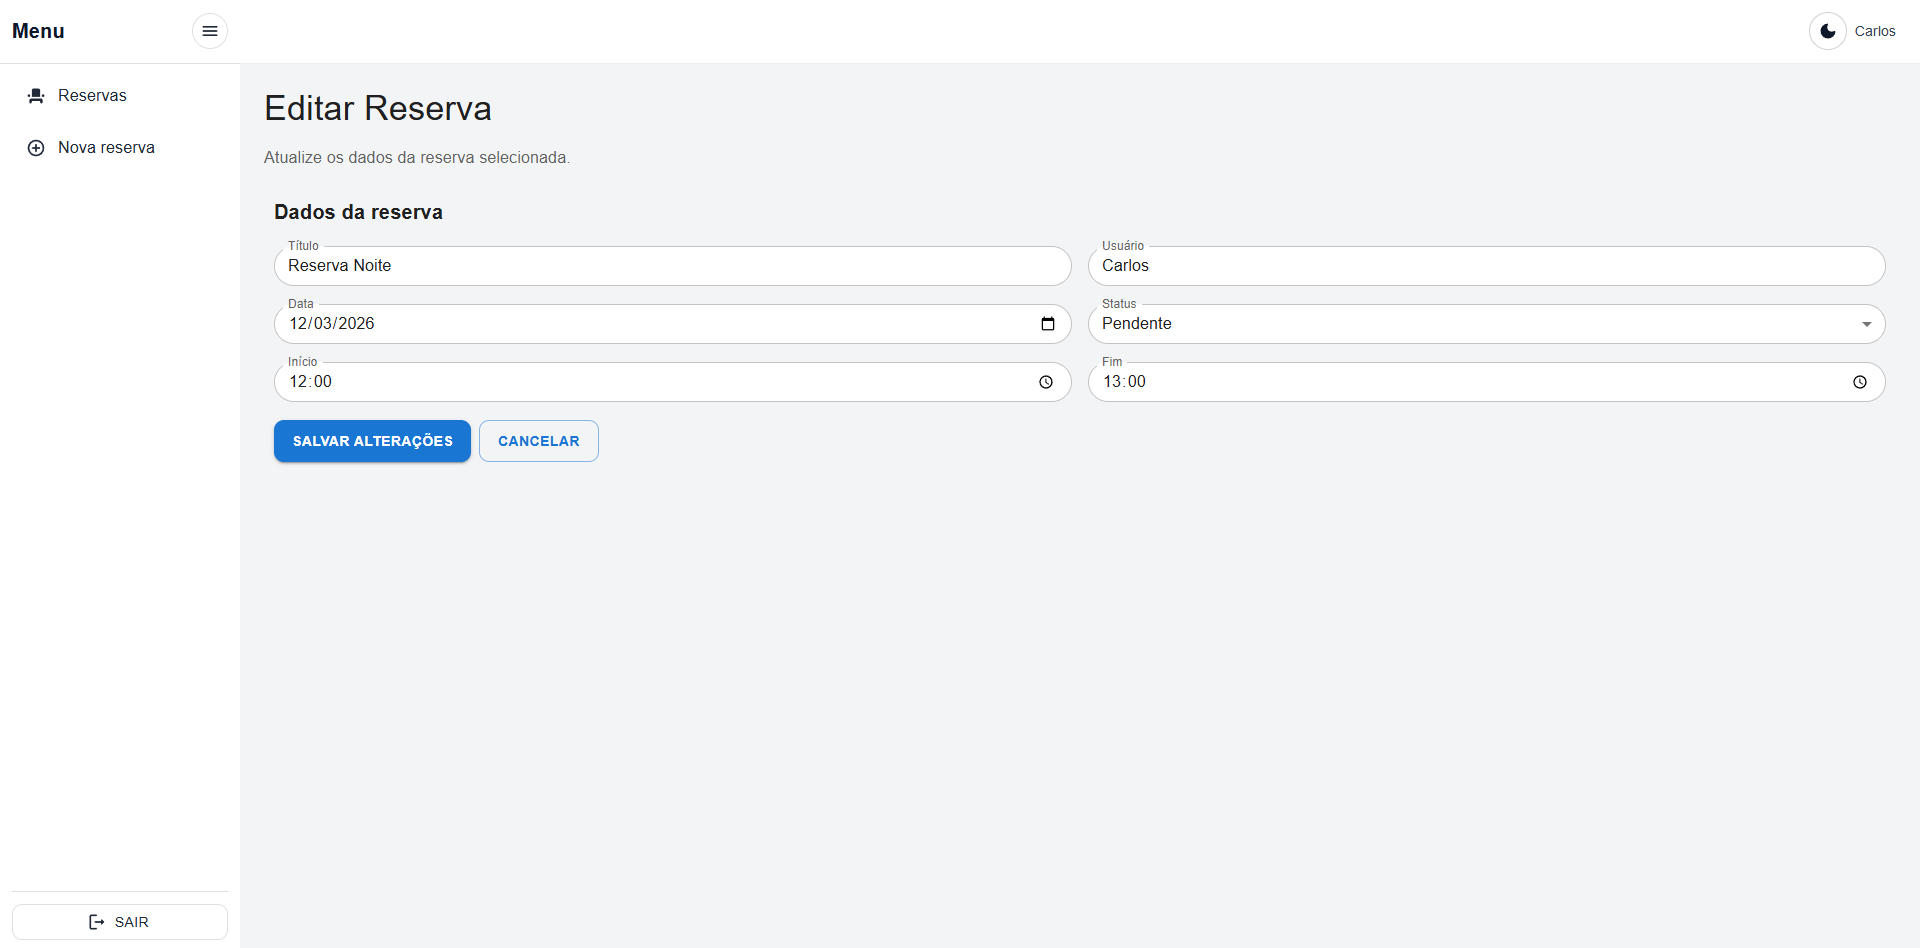
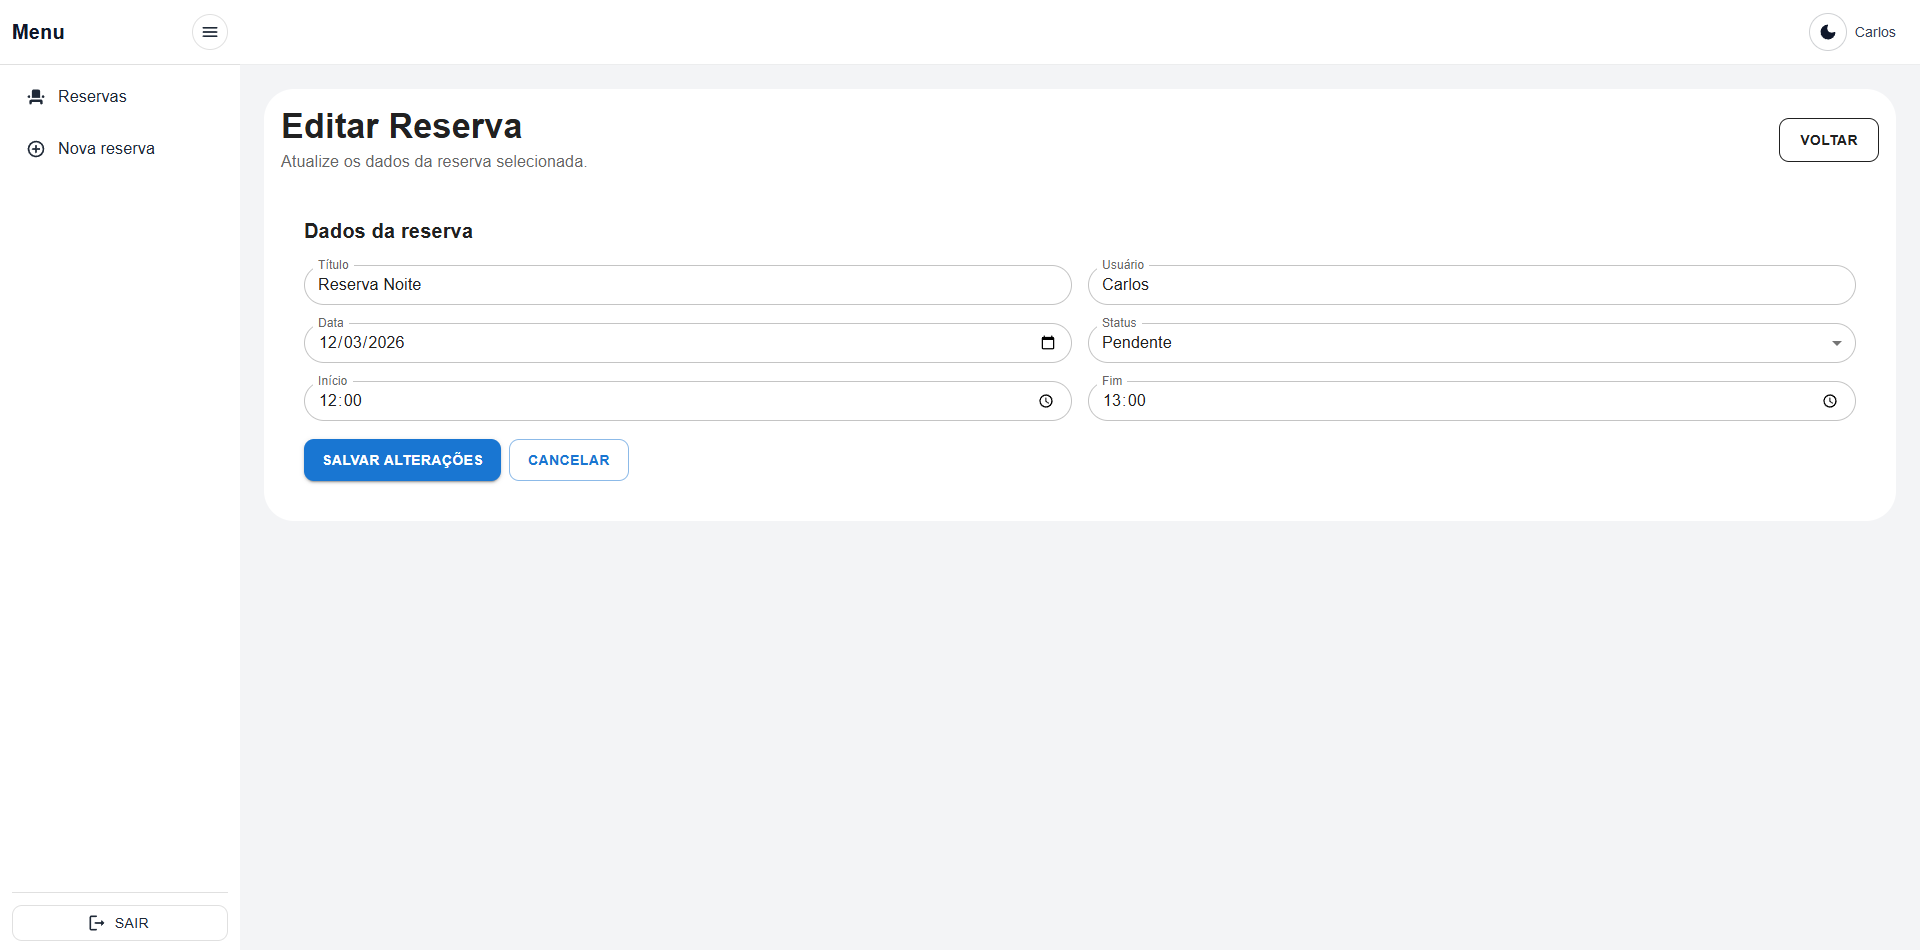
feat: aprimamento do layout da página EditReservationPage com o componente Paper e estilos melhorados.

diff --git a/src/pages/EditReservationPage.tsx b/src/pages/EditReservationPage.tsx
@@ -1,9 +1,9 @@
-import { Stack, Typography, type AlertColor } from '@mui/material'
+import { Paper, Stack, Typography, type AlertColor } from '@mui/material'
 import { useCallback, useEffect, useState } from 'react'
 import { useNavigate, useParams } from 'react-router-dom'
 import { ReservationForm } from '@/components/reservations'
 import { EmptyState, ErrorState, LoadingState } from '@/components/states'
-import { Toast } from '@/components/ui'
+import { Button, Toast } from '@/components/ui'
 import { useReservations } from '@/hooks/useReservations'
 import type { Reservation } from '@/models/reservation'
 import { reservationService } from '@/services/reservationService'
@@ -103,25 +103,62 @@ export function EditReservationPage() {
   }
 
   return (
-    <Stack spacing={2}>
-      <Typography variant="h4">Editar Reserva</Typography>
-      <Typography color="text.secondary">Atualize os dados da reserva selecionada.</Typography>
+    <Paper
+      variant="outlined"
+      sx={{
+        p: { xs: 1.5, md: 2 },
+        borderRadius: 3,
+        backgroundColor: 'background.paper',
+        borderColor: 'transparent',
+      }}
+    >
+      <Stack spacing={2.25}>
+        <Stack direction={{ xs: 'column', md: 'row' }} justifyContent="space-between" gap={1.5}>
+          <Stack spacing={0.25}>
+            <Typography variant="h4" fontWeight={700} color="text.primary">
+              Editar Reserva
+            </Typography>
+            <Typography color="text.secondary">Atualize os dados da reserva selecionada.</Typography>
+          </Stack>
 
-      <ReservationForm
-        submitLabel="Salvar alterações"
-        initialValues={reservation}
-        existingReservations={reservations}
-        currentReservationId={reservation.id}
-        onSubmit={handleUpdateReservation}
-        onCancel={() => navigate('/reservas')}
-      />
+          <Stack direction="row" spacing={1} alignItems="center">
+            <Button
+              variant="outlined"
+              color="inherit"
+              onClick={() => navigate('/reservas')}
+              sx={{ minHeight: 44, px: 2.5, fontWeight: 600 }}
+            >
+              Voltar
+            </Button>
+          </Stack>
+        </Stack>
 
-      <Toast
-        open={Boolean(toast)}
-        message={toast?.message ?? ''}
-        severity={toast?.severity ?? 'success'}
-        onClose={closeToast}
-      />
-    </Stack>
+        <Paper
+          variant="outlined"
+          sx={{
+            p: { xs: 1.25, md: 1.5 },
+            borderRadius: 2,
+            backgroundColor: 'background.default',
+            borderColor: 'transparent',
+          }}
+        >
+          <ReservationForm
+            submitLabel="Salvar alterações"
+            initialValues={reservation}
+            existingReservations={reservations}
+            currentReservationId={reservation.id}
+            onSubmit={handleUpdateReservation}
+            onCancel={() => navigate('/reservas')}
+          />
+        </Paper>
+
+        <Toast
+          open={Boolean(toast)}
+          message={toast?.message ?? ''}
+          severity={toast?.severity ?? 'success'}
+          onClose={closeToast}
+        />
+      </Stack>
+    </Paper>
   )
 }
